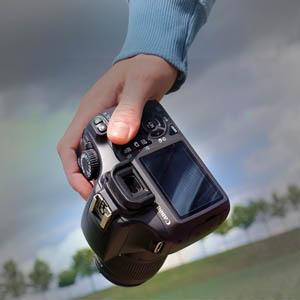
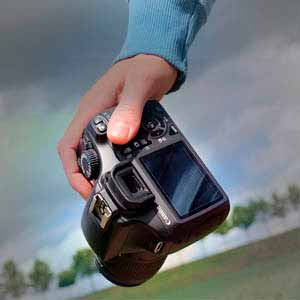
imagens otimizadas2

diff --git a/produto7.html b/produto7.html
@@ -1,0 +1,70 @@
+<!DOCTYPE html>
+<html>
+<head>
+	<meta charset="utf-8">
+	<meta http-equiv="X-UA-Compatible" content="IE=edge">
+	<meta name="viewport" content="width=device-width, initial-scale=1">
+	<title></title>
+	<link rel="shortcut icon" href="img/logo.ico" />
+	<link rel="stylesheet" href="css/geral.css">
+	<link rel="stylesheet" href="css/produtos.css">
+	<link rel="stylesheet" href="css/plugins.css">
+
+
+</head>
+<body>
+	<header>
+	<div class="container-fluid">
+		<div class="logo">
+			<img src="img/topo.png" alt="logo topo">
+		</div>
+	
+		<nav>
+		
+			<ul class="navega">
+				
+				<li class="home"><a href="index.html">Criador</a></li>
+				<li class="servicos"><a href="servicos.html">Serviços</a></li>
+				<li class="portifolio"><a href="portifolio.html">Portifólio</a></li>
+				<li class="contato"><a href="contato.html">Contato</a></li>
+			</ul>
+		</nav>
+		</div>
+	</header>
+	
+		<main>
+<div class="container-fluid">		
+			<div class="descricao">
+			<h1><div><img src="img/lente.jpg" height="60" ></div>Edição e tratamento de fotos</h1>
+			<spam class="paragrafo" > <p>Muitos fotógrafos tiram fotos incríveis, dominam todos os ajustes e configurações da câmera, enquadramentos, composições, mas na hora de dar aquele toque final na edição de fotos, eles estragam com tudo. Se engana quem pensa que é um ou dois, pelo contrário, muita gente erra nos efeitos da imagem na hora da edição final. Outras pessoas (a maioria é quem não sabe mexer em programas de edição) dizem que preferem não tratar a foto, para preservar a imagem original.<br><br><br></p></spam>
+			</div></div>
+			<div class="container-fluid">	
+			<div class="formatos">
+				<h2>Pacotes</h2>
+				<p><strong>Transições ou vinhetas:</strong> Média de 5 segundos a partir de R$40,00<br>
+				<strong>animar logotipo</strong>Média de 5 segundos a partir de R$60,00   <br>
+ 				<strong>lyric video:</strong> Média de R$80,00 por 3 minutos de video<br>
+ 				<strong>Apresentação comercial, propaganda <br></strong>
+				
+				<strong> Todos os trabalhos feitos seguindo a risca do que você deseja para que combine com o seu perfil<br></strong>
+			Pagamento Boleto bancario ou crédito <br><img src="img/pay.png" alt=""></p>
+
+
+			</div>
+			</div>
+			<div class="botao">
+						<a class="bot" href="contato.html">Entre Em Contato</a>
+					</div>
+	
+	</main>
+		
+			<footer>
+			<div class="container-fluid">
+			<img src="img/rodape.png" alt="">
+
+				
+			</div>
+				
+			</footer>	
+</body>
+</html>
